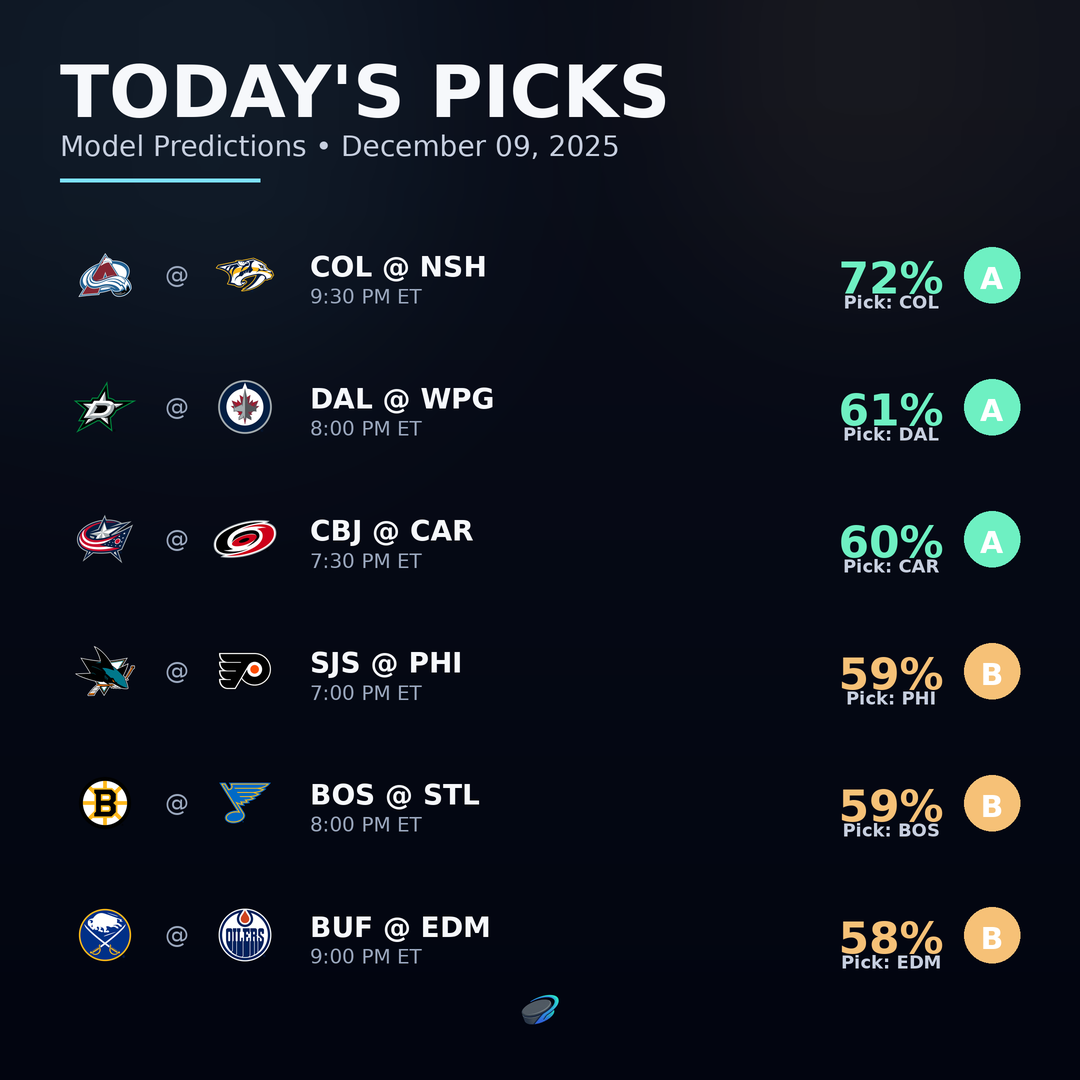
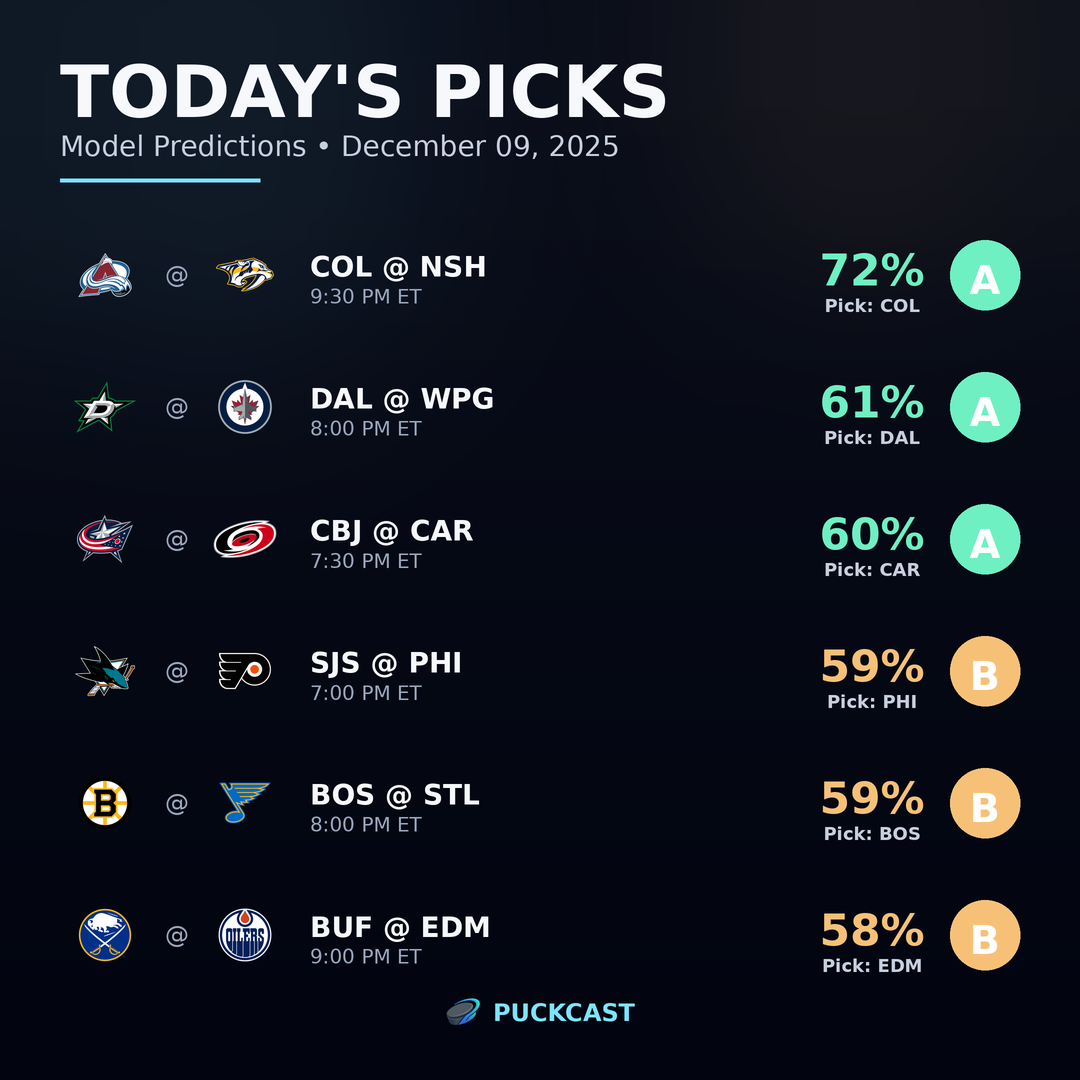
fix: improve badge legibility, spacing, and footer branding
- Increase grade badge size (56 -> 70) and font (30 -> 40) for legibility
- Add more spacing between win % and "Pick:" label
- Update footer to show logo + "PUCKCAST" text together, centered

diff --git a/graphics/image_utils.py b/graphics/image_utils.py
@@ -467,54 +467,60 @@ def draw_footer(
     img: Image.Image,
     margin: int = None,
 ) -> None:
-    """Draw a clean, professional footer with logo only. Auto-scales for supersampling."""
+    """Draw footer with logo and PUCKCAST text. Auto-scales for supersampling."""
     # Auto-detect scale based on image size
     scale = img.width / 1080
     if margin is None:
         margin = int(40 * scale)
 
+    draw = ImageDraw.Draw(img)
+    brand_text = "PUCKCAST"
+    font_size = int(24 * scale)
+    font = get_font(font_size, bold=True)
+    text_color = hex_to_rgb(PuckcastColors.AQUA)
+
+    # Get text dimensions
+    text_bbox = draw.textbbox((0, 0), brand_text, font=font)
+    text_width = text_bbox[2] - text_bbox[0]
+    text_height = text_bbox[3] - text_bbox[1]
+
     # Load the Puckcast logo
     logo_path = ASSETS_DIR / "puckcastai.png"
-    if not logo_path.exists():
-        # Fallback - draw text only
-        draw = ImageDraw.Draw(img)
-        font_size = int(22 * scale)
-        font = get_font(font_size, bold=True)
-        color = hex_to_rgb(PuckcastColors.AQUA)
-        text = "PUCKCAST.AI"
-        bbox = draw.textbbox((0, 0), text, font=font)
-        text_width = bbox[2] - bbox[0]
-        x = (img.width - text_width) // 2
-        y = img.height - margin - int(20 * scale)
-        draw.text((x, y), text, fill=color, font=font)
-        return
+    logo = None
+    logo_width = 0
+    logo_height = int(36 * scale)
 
-    try:
-        logo = Image.open(logo_path).convert("RGBA")
-        # Scale logo based on image size
-        logo_height = int(40 * scale)
-        aspect = logo.width / logo.height
-        logo_width = int(logo_height * aspect)
-        logo = logo.resize((logo_width, logo_height), Image.Resampling.LANCZOS)
+    if logo_path.exists():
+        try:
+            logo = Image.open(logo_path).convert("RGBA")
+            aspect = logo.width / logo.height
+            logo_width = int(logo_height * aspect)
+            logo = logo.resize((logo_width, logo_height), Image.Resampling.LANCZOS)
+        except Exception:
+            logo = None
 
-        # Center the logo horizontally
-        x = (img.width - logo_width) // 2
-        y = img.height - margin - logo_height
+    # Calculate total width (logo + gap + text)
+    gap = int(12 * scale) if logo else 0
+    total_width = logo_width + gap + text_width if logo else text_width
 
-        # Composite with transparency
+    # Center everything horizontally
+    start_x = (img.width - total_width) // 2
+    y = img.height - margin - max(logo_height, text_height)
+
+    # Draw logo if available
+    if logo:
+        logo_y = y + (max(logo_height, text_height) - logo_height) // 2
         if img.mode != "RGBA":
             img_rgba = img.convert("RGBA")
-            img_rgba.paste(logo, (x, y), logo)
+            img_rgba.paste(logo, (start_x, logo_y), logo)
             img.paste(img_rgba.convert("RGB"))
         else:
-            img.paste(logo, (x, y), logo)
-    except Exception as e:
-        # Fallback to text
-        draw = ImageDraw.Draw(img)
-        font_size = int(22 * scale)
-        font = get_font(font_size, bold=True)
-        color = hex_to_rgb(PuckcastColors.AQUA)
-        draw.text((img.width // 2 - int(50 * scale), img.height - margin - int(20 * scale)), "PUCKCAST.AI", fill=color, font=font)
+            img.paste(logo, (start_x, logo_y), logo)
+
+    # Draw brand text
+    text_x = start_x + logo_width + gap if logo else start_x
+    text_y = y + (max(logo_height, text_height) - text_height) // 2 - int(4 * scale)
+    draw.text((text_x, text_y), brand_text, fill=text_color, font=font)
 
 
 def draw_badge(

diff --git a/graphics/templates/edge_posts.py b/graphics/templates/edge_posts.py
@@ -135,8 +135,8 @@ def draw_prediction_row(
     # Right side: Confidence grade badge + Win probability
     grade_color = get_confidence_color_rgb(confidence)
 
-    # Confidence grade circle/badge
-    badge_size = S(56)
+    # Confidence grade circle/badge - BIGGER for legibility
+    badge_size = S(70)
     badge_x = img.width - margin - badge_size
     badge_y = row_center_y - badge_size // 2
 
@@ -146,13 +146,13 @@ def draw_prediction_row(
         fill=grade_color,
     )
 
-    # Grade letter in badge
-    grade_font = get_font(S(30), bold=True)
+    # Grade letter in badge - LARGER font for legibility
+    grade_font = get_font(S(40), bold=True)
     grade_bbox = draw.textbbox((0, 0), confidence, font=grade_font)
     grade_w = grade_bbox[2] - grade_bbox[0]
     grade_h = grade_bbox[3] - grade_bbox[1]
     draw.text(
-        (badge_x + (badge_size - grade_w) // 2, badge_y + (badge_size - grade_h) // 2 - S(3)),
+        (badge_x + (badge_size - grade_w) // 2, badge_y + (badge_size - grade_h) // 2 - S(4)),
         confidence,
         fill=(255, 255, 255),
         font=grade_font,
@@ -164,23 +164,24 @@ def draw_prediction_row(
     prob_bbox = draw.textbbox((0, 0), prob_text, font=prob_font)
     prob_w = prob_bbox[2] - prob_bbox[0]
     prob_h = prob_bbox[3] - prob_bbox[1]
-    prob_x = badge_x - prob_w - S(20)
+    prob_x = badge_x - prob_w - S(25)
 
+    # Position probability higher to make room for pick label
     draw.text(
-        (prob_x, row_center_y - prob_h // 2 - S(6)),
+        (prob_x, row_center_y - prob_h // 2 - S(14)),
         prob_text,
         fill=grade_color,
         font=prob_font,
     )
 
-    # Pick label (team abbrev under probability)
+    # Pick label (team abbrev under probability) - MORE SPACING
     pick_font = get_font(S(18), bold=True)
     pick_label = f"Pick: {pick_abbrev}"
     pick_bbox = draw.textbbox((0, 0), pick_label, font=pick_font)
     pick_w = pick_bbox[2] - pick_bbox[0]
 
     draw.text(
-        (prob_x + (prob_w - pick_w) // 2, row_center_y + prob_h // 2),
+        (prob_x + (prob_w - pick_w) // 2, row_center_y + S(20)),
         pick_label,
         fill=hex_to_rgb(PuckcastColors.TEXT_SECONDARY),
         font=pick_font,
